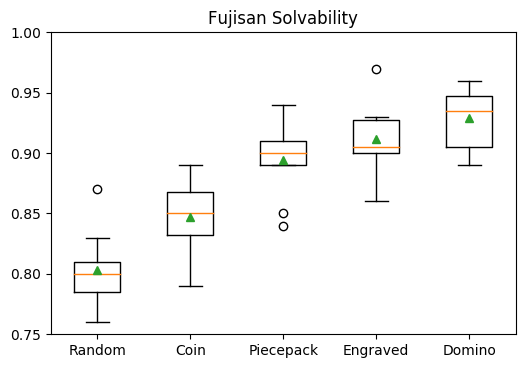
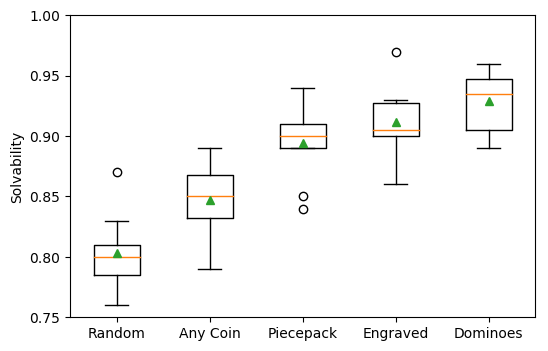
Edits to Abstract and Intro, added new connectivity graph

diff --git a/bare_adv.tex b/bare_adv.tex
@@ -73,6 +73,7 @@
 
 \usepackage{graphicx}
 \usepackage{amsmath}
+\usepackage{hyperref}
 % For Computer Society journals, IEEEtran defaults to the use of 
 % Palatino/Palladio as is done in IEEE Computer Society journals.
 % To go back to Times Roman, you can use this code:
@@ -626,7 +627,9 @@ E-mail: see http://mark.goadrich.com/schedule.html
 % in the abstract or keywords.
 \IEEEtitleabstractindextext{%
 \begin{abstract}
-    Challenges for solitaire puzzle games are typically created offline, either by a human or algorithm. Online procedural content generation algorithms, in which the solver randomly sets up the board based on a predefined stochastic algorithm, can sometimes generate unsolvable or uninteresting challenges. For the game Fujisan, we examine how different stochastic generation algorithms affect challenge quality. We evaluate each algorithm on ease of physical setup, solvability, and difficulty. We find that subtle changes in an algorithm's random distribution can have large-scale changes on the generated content.
+    Challenges for solitaire puzzle games are typically created offline by humans. Alternately, some games incorporate stochastic setup rules, in which the solver randomly sets up the game board before solving the challenge. However, these setup rules can sometimes generate unsolvable or uninteresting challenges. To better understand this setup process and minimize undesirable challenges, we apply a taxonomy for procedural content generation algorithms to solitaire puzzle games.
+    In particular, for the game Fujisan, we examine how different stochastic challenge generation algorithms affect ease of physical setup, challenge solvability, and challenge difficulty. We find that algorithms can be simple for the solver yet generate solvable and difficult challenges, by constraining randomness through embedding sub-elements of quality challenges into the physical pieces of the game.
+    
 \end{abstract}
 
 % Note that keywords are not normally used for peerreview papers.
@@ -696,12 +699,12 @@ Procedural Content Generation, Puzzle Design, Solitaire Games, Solvability
 % and "HIS" in caps to complete the first word.
 \IEEEPARstart{F}{ujisan} 
 % Maybe start with describing Fujisan, make most of this background section?
-\footnote{http://www.ludism.org/ppwiki/Fuji-san} is a solitaire game created for the piecepack game system \cite{GAMESYSTEM}. In this game, the solver must find a way to cooperatively move four Shinto priests to the top of Mt. Fuji through incremental steps up the mountainside. A sample Fujisan challenge is shown in Figure \ref{fig:SampleFujisan}, with two priests on each edge and the goal summit spaces in gray. 
+\footnote{http://www.ludism.org/ppwiki/Fuji-san} is a solitaire game created for the piecepack game system \cite{GAMESYSTEM}. In this game, the solver must find a way to cooperatively move four Shinto Priests to the top of Mt. Fuji through incremental steps up the mountainside. A sample Fujisan challenge is shown in Figure \ref{fig:SampleFujisan}, with two Priests on each edge and the goal summit spaces in gray. 
 
 Challenges for Fujisan are created by the solver, using a random setup process to assemble the game pieces into the mountain. However, this process leads to three natural questions. {\it How easy is the setup process for the solver to execute? Can all such challenges be solved? How difficult are the created challenges? }
 To answer these questions, we compare and contrast multiple setup algorithms and constraints using computational simulations. Fujisan is well-suited for this computational analysis because of its simple rules, small component count, and tractable solve times. 
 
-First, we examine solitaire games through the lens of procedural content generation, where algorithms are used to create game content \cite{PCGSURVEY}. Next, we explore the creation of Fujisan and the piecepack game system, followed by a detailed description of five different challenge setup algorithms. Finally, we evaluate these algorithms with respect to ease of player setup, solvability, and difficulty, and draw conclusions about our results. 
+First, we examine solitaire games through the lens of procedural content generation, where algorithms are used to create game content \cite{PCGSURVEY}. Next, we explore the creation of Fujisan and the piecepack game system, followed by a detailed description of five different challenge setup algorithms. Finally, we evaluate these algorithms with respect to ease of player setup, solvability, and difficulty. We find that algorithms can succeed across all three metrics by carefully incorporating desirable constraints based on the puzzle mechanics of Fujisan. 
 
 %===========================================
 
@@ -727,8 +730,8 @@ Khalifa and Fayek\cite{PUZZLELANG} investigated a combination of construction an
 
 A less-explored variety of puzzles with relation to PCG 
 are solitaire games, for example
-sliding block puzzles \cite{FIFTEEN} (including Rush Hour$^{TM}$) \footnote{https://www.thinkfun.com/products/rush-hour/}, 
-and Hi-Q (generalized peg solitaire) \cite{PEG}. In these games, solvers must manipulate physical pieces as they solve a challenge. Since the initial setup for these games must be executed by the solver, providing the solver with predefined challenges and a solution book is common practice. PCG can also be applied to these games, by again constructing challenges offline and guaranteeing they are solvable, as seen in recent work by van Dijk \cite{RUSHHOUR} and K{\"o}pp \cite{TANGRAM} for Rush Hour and Tangrams respectively. 
+sliding block puzzles \cite{FIFTEEN} (including Rush Hour) \footnote{https://www.thinkfun.com/products/rush-hour/}, 
+and Hi-Q (generalized peg solitaire) \cite{PEG}. In these games, solvers must manipulate physical pieces as they solve a challenge. Since the initial setup for these games must be executed by the solver, providing the solver with predefined challenges and a solution book is common practice. PCG can also be applied to these games, by again constructing challenges offline and guaranteeing they are solvable, as seen in recent work by van Dijk \cite{RUSHHOUR} and K{\"o}pp \cite{TANGRAM}. 
 
 There are, however, alternative PCG approaches available for physical solitaire games, most popularly demonstrated by the card game Klondike Solitaire. In particular, this game uses an {\it online, stochastic, generate-and-test} PCG algorithm, which is as simple as shuffling the deck of cards at the start of the game. Also of note, having a solution for Klondike is {\it optional}; the {\it test} portion of the generate-and-test algorithm is left to the solver as they play through the game. Wolter \cite{SOLITAIREVARIANTS} developed the Politaire system, and examines the effect of various shuffling algorithms across multiple solitaire card game variations. One variant called Thoughtful Solitaire, played such that all card locations are known to the solver at the beginning of the game, has been separately found to be solvable between 82\% and 91.44\% \cite{THOUGHTFUL}. Also falling within this classification is BoxOff, a 2D token removal puzzle, where Browne and Maire investigated game parameters using Monte Carlo simulation \cite{MCPUZZLE}.
 \noindent
@@ -792,13 +795,14 @@ Fujisan uses the reverse side of 21 of the 24 tiles to form the mountain, the ob
 
 \begin{figure}[t]
 \centering
-\includegraphics[width=5cm]{graphics/infinite2.jpg}
-\caption{The piecepack, Infinite Board Games version}
+\includegraphics[width=7cm]{graphics/infinite2.jpg}
+\caption{The piecepack, Infinite Board Game version. Photo courtesy of Workman
+Publishing.}
 \label{fig:piecepackinfinite}
 \end{figure}
 
 %====================================================================================
-\section{Procedural Content Generation Algorithms} \label{section:pcgalgs}
+\section{PCG Setup Algorithms} \label{section:pcgalgs}
 
 \noindent
 Using the PCG taxonomy described in Section \ref{sec:Background}, Fujisan, like Klondike Solitaire, uses an {\it online, stochastic, generate-and-test, optional} PCG algorithm for challenge setup. However, if the solver reaches a point in Fujisan where progress toward a solution no longer appears to be made, it might not be obvious whether the challenge setup is indeed solvable. Fujisan's initial game state is preserved throughout play; the solver can easily return the Priests to their starting locations and begin the challenge anew at any time. Thus, it is important to find algorithms that maximize solvability.
@@ -810,13 +814,13 @@ Here we explore a progression of constraints that create multiple variant algori
 \renewcommand{\arraystretch}{1.3}
 \caption{Statistics about Fujisan Setup Algorithms for each metric.}
 \label{table_stats}
-\begin{tabular}{l|r|c|c|c|}
-\multicolumn{1}{c|}{\textbf{PCG}} & \multicolumn{1}{c|}{\textit{\textbf{Possible Challenges}}} & \multicolumn{1}{l|}{\textit{\textbf{Count of Each Value}}} & \multicolumn{1}{l|}{\textit{\textbf{Doubles can Occur}}} & \multicolumn{1}{l|}{\textit{\textbf{Values Pairs can Repeat}}} \\ \hline
-\textbf{Random}                   & 1,184,595,334,580,404,224                                  & 0 to 24                                                    & yes                                                      & yes                                                            \\ \hline
-\textbf{Any Coin}                 & 811,667,634,277,500                                        & exactly 4                                                  & yes                                                      & yes                                                            \\ \hline
-\textbf{Piecepack}                & 67,184,640,000                                             & exactly 4                                                  & no                                                       & yes                                                            \\ \hline
-\textbf{Engraved}                 & 10,573,992                                                 & 0 to 7                                                     & yes                                                      & only at summit                                                 \\ \hline
-\textbf{Domino}                   & 465,920                                                    & 2 to 5                                                     & no                                                       & no                                                             \\ \hline
+\begin{tabular}{l|c|c|c|c|}
+\multicolumn{1}{c|}{\textbf{PCG}} & \multicolumn{1}{c|}{\textit{\textbf{Possible Challenges}}} & \multicolumn{1}{l|}{\textit{\textbf{Count of Each Value}}} & \multicolumn{1}{l|}{\textit{\textbf{Identical Step Values}}} & \multicolumn{1}{l|}{\textit{\textbf{Repeated Step Values}}} \\ \hline
+\textbf{Random}                   & $10^{18}$                                  & 0 to 24                                                    & yes                                                      & yes                                                            \\ \hline
+\textbf{Any Coin}                 & $10^{14}$ & exactly 4                                                  & yes                                                      & yes                                                            \\ \hline
+\textbf{Piecepack}                & $10^{10}$                                             & exactly 4                                                  & no                                                       & yes                                                            \\ \hline
+\textbf{Engraved}                 & $10^{7}$                                                 & 0 to 7                                                     & yes                                                      & only at summit                                                 \\ \hline
+\textbf{Domino}                   & $10^{5} $                                                   & 2 to 5                                                     & no                                                       & no                                                             \\ \hline
 \end{tabular}
 \end{table*}
 
@@ -829,7 +833,7 @@ First, we examine a purely random process as a baseline algorithm for comparison
   Take one die from the piecepack. For each space, roll the die and place a coin that matches the number rolled on the space.
 \end{quote}
 
-With 24 spaces and six options for each space, this algorithm can generate $\frac{6^{24}}{4} = 1,184,595,334,580,404,224$ possible challenges. We divide by 4 here and in subsequent calculations because Fujisan challenges display rotational, horizontal, and vertical symmetry. Each subsequent algorithm will constrain this randomness in some way, eliminating possible challenges from consideration.
+With 24 spaces and six options for each space, this algorithm can generate $\frac{6^{24}}{4} \approx 10^{18}$ possible challenges. We divide by 4 here and in subsequent calculations to account for Fujisan challenges displaying rotational, horizontal, and vertical symmetry. Each subsequent algorithm will constrain this randomness in some way, eliminating possible challenges from consideration.
 
 \subsection{Any Coin}
 
@@ -842,7 +846,7 @@ Next, we examine two algorithms that make use of the piecepack coin components t
 \end{quote}
 
 Since each of the numbers 0 to 5 are present four times (once per suit), we can use the multinomial theorem to determine this method can create
-$\frac{24!}{4!^{7}} = 811,667,634,277,500$ possible challenges. 
+$\frac{24!}{4!^{7}} \approx 10^{14}$ possible challenges. 
 
 However, if two 0 coins are placed in same row, then it becomes impossible to move a Priest onto that row. This creates holes in our challenges and limits the number of solvable setups. 
 More importantly, when both spaces of either of the summit columns contain 0s, the challenge becomes impossible to solve.
@@ -858,14 +862,14 @@ The original published Fujisan ruleset was devised to address the issue of doubl
 \end{quote}
 
 
-With each space limited to choosing from a particular suit, the piecepack algorithm will generate $\frac{6!^4}{4} = 67,184,640,000$ possible challenges. 
+With each space limited to choosing from a particular suit, the piecepack algorithm will generate $\frac{6!^4}{4} \approx 10^{10}$ possible challenges. 
 This algorithm will guarantee there are no double numbers on a step, thus eliminating the double 0 issue noted above. 
 
 \subsection{Engraved Tiles}
 
 \begin{figure}[t]
 \centering
-\includegraphics[width=6cm]{graphics/engravedsample.png}
+\includegraphics[width=4cm]{graphics/engravedsample.png}
 \caption{Sample Engraved Fujisan Tiles.}
 \label{fig:engravedsample}
 \end{figure}
@@ -879,8 +883,7 @@ numbers onto the spaces. Here, we explore creating tiles with every possible pai
   Shuffle the tiles face-down. Then assemble the mountain using face-up tiles, using six for the bottom row, five for the next row, then four, then three, and finally two. The summit will be the center four spaces.
 \end{quote}
 
-This further constrains each pair of numbers to appear only once in the puzzle, except for the top two tiles. There are 20 possible tiles, and only 10 of them can be seen once the puzzle is constructed, as shown in Figure \ref{fig:tileexample}. 15 of these tiles have two possible orientations, for a total of $\sum_{i = 5}^{10}\frac{{15 \choose i}\binom{5}{5 - i}2^{i}}{4} = 
-10,573,992
+This further constrains each pair of numbers to appear only once in the puzzle, except for the top two tiles. There are 20 possible tiles, and only 10 of them can be seen once the puzzle is constructed, as shown in Figure \ref{fig:tileexample}. 15 of these tiles have two possible orientations, for a total of $\sum_{i = 5}^{10}\frac{{15 \choose i}\binom{5}{5 - i}2^{i}}{4} \approx 10^{7}
 $ possible challenges.
 
 \begin{figure}[b]
@@ -904,20 +907,20 @@ Furthermore, we can look at alternate existing pieces with which to construct Fu
   Shuffle the dominoes face-down. Place 12 of these dominoes face-up in a row to create the mountain. Place a face-down domino on each side of the mountain to denote the starting locations for the Priests. Place the remaining face-down domino horizontally in the middle to raise up the two central dominoes, denoting the summit.
 \end{quote}
 
-This constraint is similar to the Engraved Tiles algorithm, but with a subset of the value pairs, thus a different probability on their selection.  Additionally, unlike the Engraved Tiles algorithm, the summit values are unique from the two steps closest the summit.
-With 15 possible dominoes, only 12 of them are used in the challenge, as shown in Figure \ref{fig:dominoexample}. Each of these dominoes has two possible orientations, for a total of $\frac{{15 \choose 12}2^{12}}{4} = 465,920$ possible challenges. 
+This constraint is similar to the Engraved Tiles algorithm, but with a subset of the value pairs, thus a different probability on their selection.  Additionally, unlike the Engraved Tiles algorithm, the summit values are distinct from the two steps closest the summit.
+With 15 possible dominoes, only 12 of them are used in the challenge, as shown in Figure \ref{fig:dominoexample}. Each of these dominoes has two possible orientations, for a total of $\frac{{15 \choose 12}2^{12}}{4} \approx 10^{5}$ possible challenges. 
 
 
 \section{Evaluation}
 
  \noindent
-To evaluate each of the algorithms discussed above, we encoded a Fujisan challenge generator using C\#, along with an A* solver for Fujisan challenges. Our admissible heuristic for A* is the number of empty spaces on the summit. For each PCG algorithm, we generated 1000 random challenges, divided into 10 trials of 100 challenges each to allow for significance testing. 
+To evaluate each of the algorithms discussed above, we encoded a Fujisan challenge generator using C\#, along with an A* solver for Fujisan challenges. Our admissible heuristic for A* is the number of empty spaces on the summit. For each PCG algorithm, we generated 1000 random challenges, divided into 10 trials of 100 challenges. 
 
 We will use three criteria to quantify each of these variants:
 {\bf ease of physical setup}, {\bf solvability}, and {\bf difficulty}.  First, our stochastic 
-generation algorithm must be easy for the solver to execute without complicated lookup tables or large numbers of components. Next, we judge a PCG algorithm to be working well when a high percentage of generated games are solvable by our A* solver. Beyond solvabilty, we also wish for PCG algorithms to have a strong inclination to generate interesting and difficult challenges for the solver. Browne and Maire \cite{MCPUZZLE} propose a metric where a solitaire game is interesting if the difference in solvability between an AI solver and a random solver is high. However, across all of our PCG algorithms implemented for Fujisan, we found a random solver would win less than 0.3\%. We define here a challenge to be difficult if it requires a large minimum number of moves to solve.
+generation algorithm must be easy for the solver to execute without complicated lookup tables or large numbers of components. Next, we judge a PCG algorithm to be working well when a high percentage of generated games are solvable by our A* solver. Beyond solvabilty, we also wish for PCG algorithms to have a strong inclination to generate interesting and difficult challenges for the solver. 
 
-For each generated challenge in our trials, we recorded if the challenge was solvable, and if so, we also recorded the minimum solution length found with our A* solver. The code used for our simulations is available on Github\footnote{http://github.com/mgoadric/fujisan}. 
+For each generated challenge in our trials, we recorded if the challenge was solvable, and if so, we also recorded the minimum solution length found with our A* solver. The code used for our simulations is available on Github \footnote{http://github.com/mgoadric/fujisan}. 
 
 \subsection{Ease of Physical Setup}
 
@@ -936,12 +939,26 @@ The numbers are already on the tiles, so the challenge is created in the process
 \label{fig:strategycomp}
 \end{figure}
 
-Figure \ref{fig:strategycomp} shows a box-and-whisker plot for the five PCG algorithms, ordered from left to right by their mean solvability. This ordering also matches the progression of constraints and reduction of the possible challenge space. Each method produces a healthy number of solvable challenges; every trial was above 75\% solvable. Individual t-tests using a p-value of 0.05 demonstrate that {\bf Pure Random} is significantly less solvable than all others, followed by {\bf Any Coin}. Within the top three algorithms, {\bf Dominoes} dominates {\bf Piecepack}, but otherwise the differences seen are not statistically significant. We believe this is due to {\bf Dominoes} requiring that each step have two unique values, and that this pairing of values is not repeated elsewhere in the challenge on other steps, as shown in Table \ref{table_stats}. These two constraints appear to create a well-connected and well-distributed challenge.
+Figure \ref{fig:strategycomp} shows a box-and-whisker plot for the five PCG algorithms, ordered from left to right by their mean solvability, marked with a green triangle. This ordering also matches the progression of constraints and reduction of the possible challenge space. Each method produces a healthy number of solvable challenges; every trial was above 75\% solvable. Individual t-tests using a p-value of 0.05 demonstrate that {\bf Pure Random} is significantly less solvable than all others, followed by {\bf Any Coin}. 
+
+\begin{figure}[t]
+\includegraphics[width=8.8cm]{graphics/connectedness.png}
+\caption{Average connectedness for Fujisan challenges across each setup algorithm. 
+Solvable challenges shown in green, and unsolvable challenges shown in red.}
+\label{fig:connected}
+\end{figure}
+
+Within the top three algorithms, only {\bf Dominoes} is statistically higher than {\bf piecepack}. As shown in Table \ref{table_stats}, both of these strategies require that each step has two unique values.
+To understand these results, we explore the relationships between this constraint and connections between steps in a challenge. We say step $A$ is connected to step $B$ in Fujisan if there is a move available according to rule 2 from $B$ to $A$. While critical to solving most challenges, we simplify our calculation and ignore the impact of intermediate Priests between $B$ and $A$. 
+
+Figure \ref{fig:connected} shows the average step connectedness within a challenge for each setup algorithm, differentiating solvable challenges in green from unsolvable challenges in red. We can see a large divide between solvable and unsolvable challenges on this metric, with higher connectivity related to solvability. For {\bf piecepack} and {\Dominoes}, the uniqueness constraint strongly increases the connectedness of both solvable and unsolvable challenges, but the divide remains intact.
+
+Second, for {\bf Dominoes} and {\bf Engraved Tiles}, repetition of pairs of values on a step are either restricted to the summit or not allowed elsewhere in the challenge. This causes the connections between steps to be more likely to overlap and bind the puzzle together as a whole, instead of breaking apart into disjoint pieces. { \bf Dominoes} appears to combine these two constraints to create well-connected and well-distributed challenges.
 
 \subsection{Difficulty}
 
-Next we compare the median level of challenge difficulty generated by each algorithm. The shortest possible solution to a Fujisan challenge requires eight moves, while 
-the longest-known constructed solution involves 62 moves\footnote{http://www.ludism.org/ppwiki/Fuji-san\#Heading9}.
+Browne and Maire \cite{MCPUZZLE} propose a metric where a solitaire game is interesting if the difference in solvability between an AI solver and a random solver is high. However, across all of our PCG algorithms implemented for Fujisan, we found a random solver would win less than 0.3\%. We define here challenge difficulty to be the minimum number of moves requires to solve, and are interested in the distribution of challenge difficulties generated by each algorithm. We compare here the median level of challenge difficulty generated by each algorithm. The shortest possible solution to a Fujisan challenge requires eight moves, while 
+the longest-known constructed challenge involves 62 moves\footnote{http://www.ludism.org/ppwiki/Fuji-san\#Heading9}.
 
 \begin{figure}[t]
 \centering
@@ -951,7 +968,7 @@ the longest-known constructed solution involves 62 moves\footnote{http://www.lud
 \end{figure}
 
 Looking at the results in Figure \ref{fig:difficultycomp}, our algorithms appear to follow a Poisson distribution rather than a normal distribution.
-Thus, we employ a Kruskal-Wallis H-test \cite{KRUSKAL} to determine if the median difficulty of our five algorithms is the same. We reject this null hypothesis very strongly, with a p-value of $1.93 x 10^{-8}$.
+Thus, we employ a Kruskal-Wallis H-test \cite{KRUSKAL} to determine if the median difficulty of our five algorithms is the same. We reject this null hypothesis very strongly, with a p-value of $1.9 x 10^{-8}$.
 
 The algorithm responsible for this result is {\bf Engraved Tiles}. We can see a strong tendency to have shorter solution lengths, with 9.5\% of challenges having a solution length of eight or nine, whereas for {\bf Domino}, this is true for only 3\% of challenges. In {\bf Engraved Tiles}, there are five tiles that contain a 0; since there will be ten total tiles hidden, on average a challenge will contain 2.5 zeros. It appears that 0 spaces are one part of what makes Fujisan challenges interesting, since having fewer 0 spaces decreases the challenge difficulty.
 
@@ -960,7 +977,7 @@ The algorithm responsible for this result is {\bf Engraved Tiles}. We can see a 
 \begin{table}[]
 \centering
 \renewcommand{\arraystretch}{1.3}
-\caption{Ranks of Fujisan Setup Algorithms for each metric. Statistical ties are denoted with *.}
+\caption{Ranks of Fujisan Setup Algorithms for each metric.\\ Statistical ties are denoted with *.}
 \label{table_example}
 \begin{tabular}{l|c|c|c|}
 \multicolumn{1}{c|}{\textbf{PCG}} & \multicolumn{1}{l|}{\textit{\textbf{Setup}}} & \multicolumn{1}{l|}{\textit{\textbf{Solvability}}} & \multicolumn{1}{l|}{\textit{\textbf{Difficulty}}} \\ \hline
@@ -1181,6 +1198,7 @@ Finally, are there general methods that allow solvers to {\it construct} challen
 % simpler here.)
 %\begin{IEEEbiography}[{\includegraphics[width=1in,height=1.25in,clip,keepaspectratio]{mshell}}]{Michael Shell}
 % or if you just want to reserve a space for a photo:
+\newpage 
 
 \begin{IEEEbiography}[{\includegraphics[width=1in,height=1.25in,clip,keepaspectratio]{graphics/markpic.png}}]{Mark Goadrich}
 is an Associate Professor of Computer Science at Hendrix College in Conway, AR.
